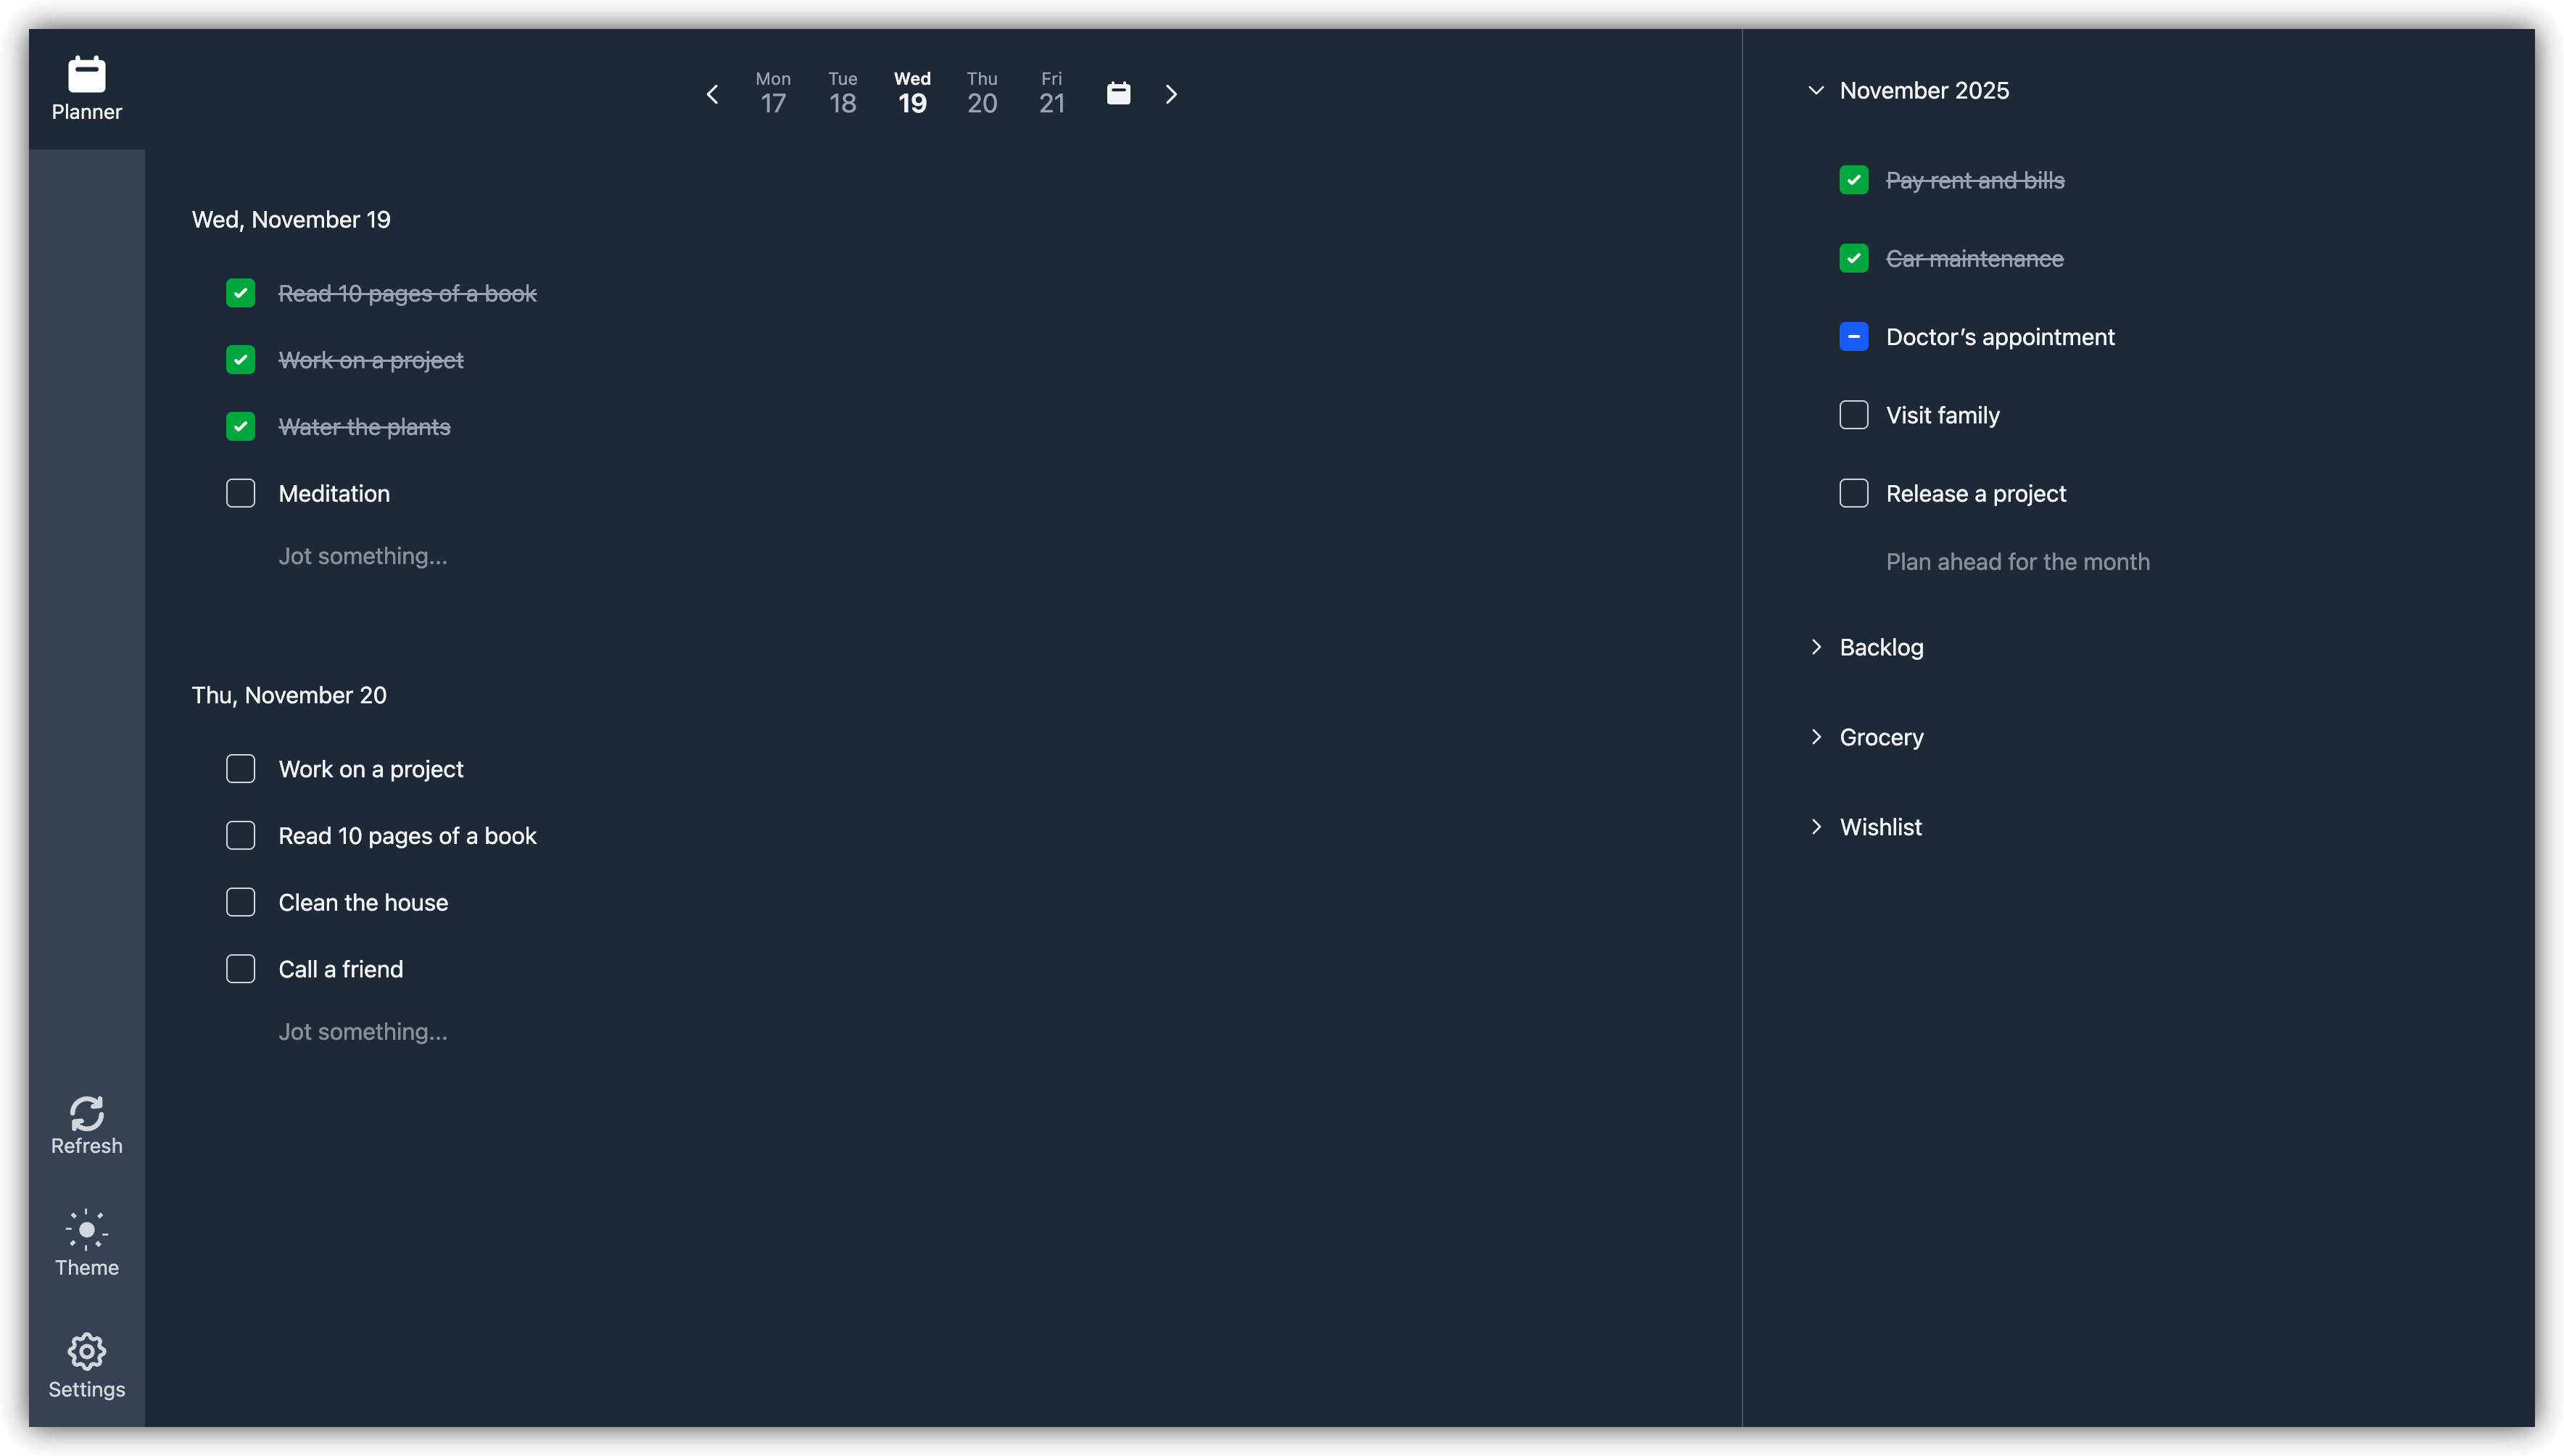
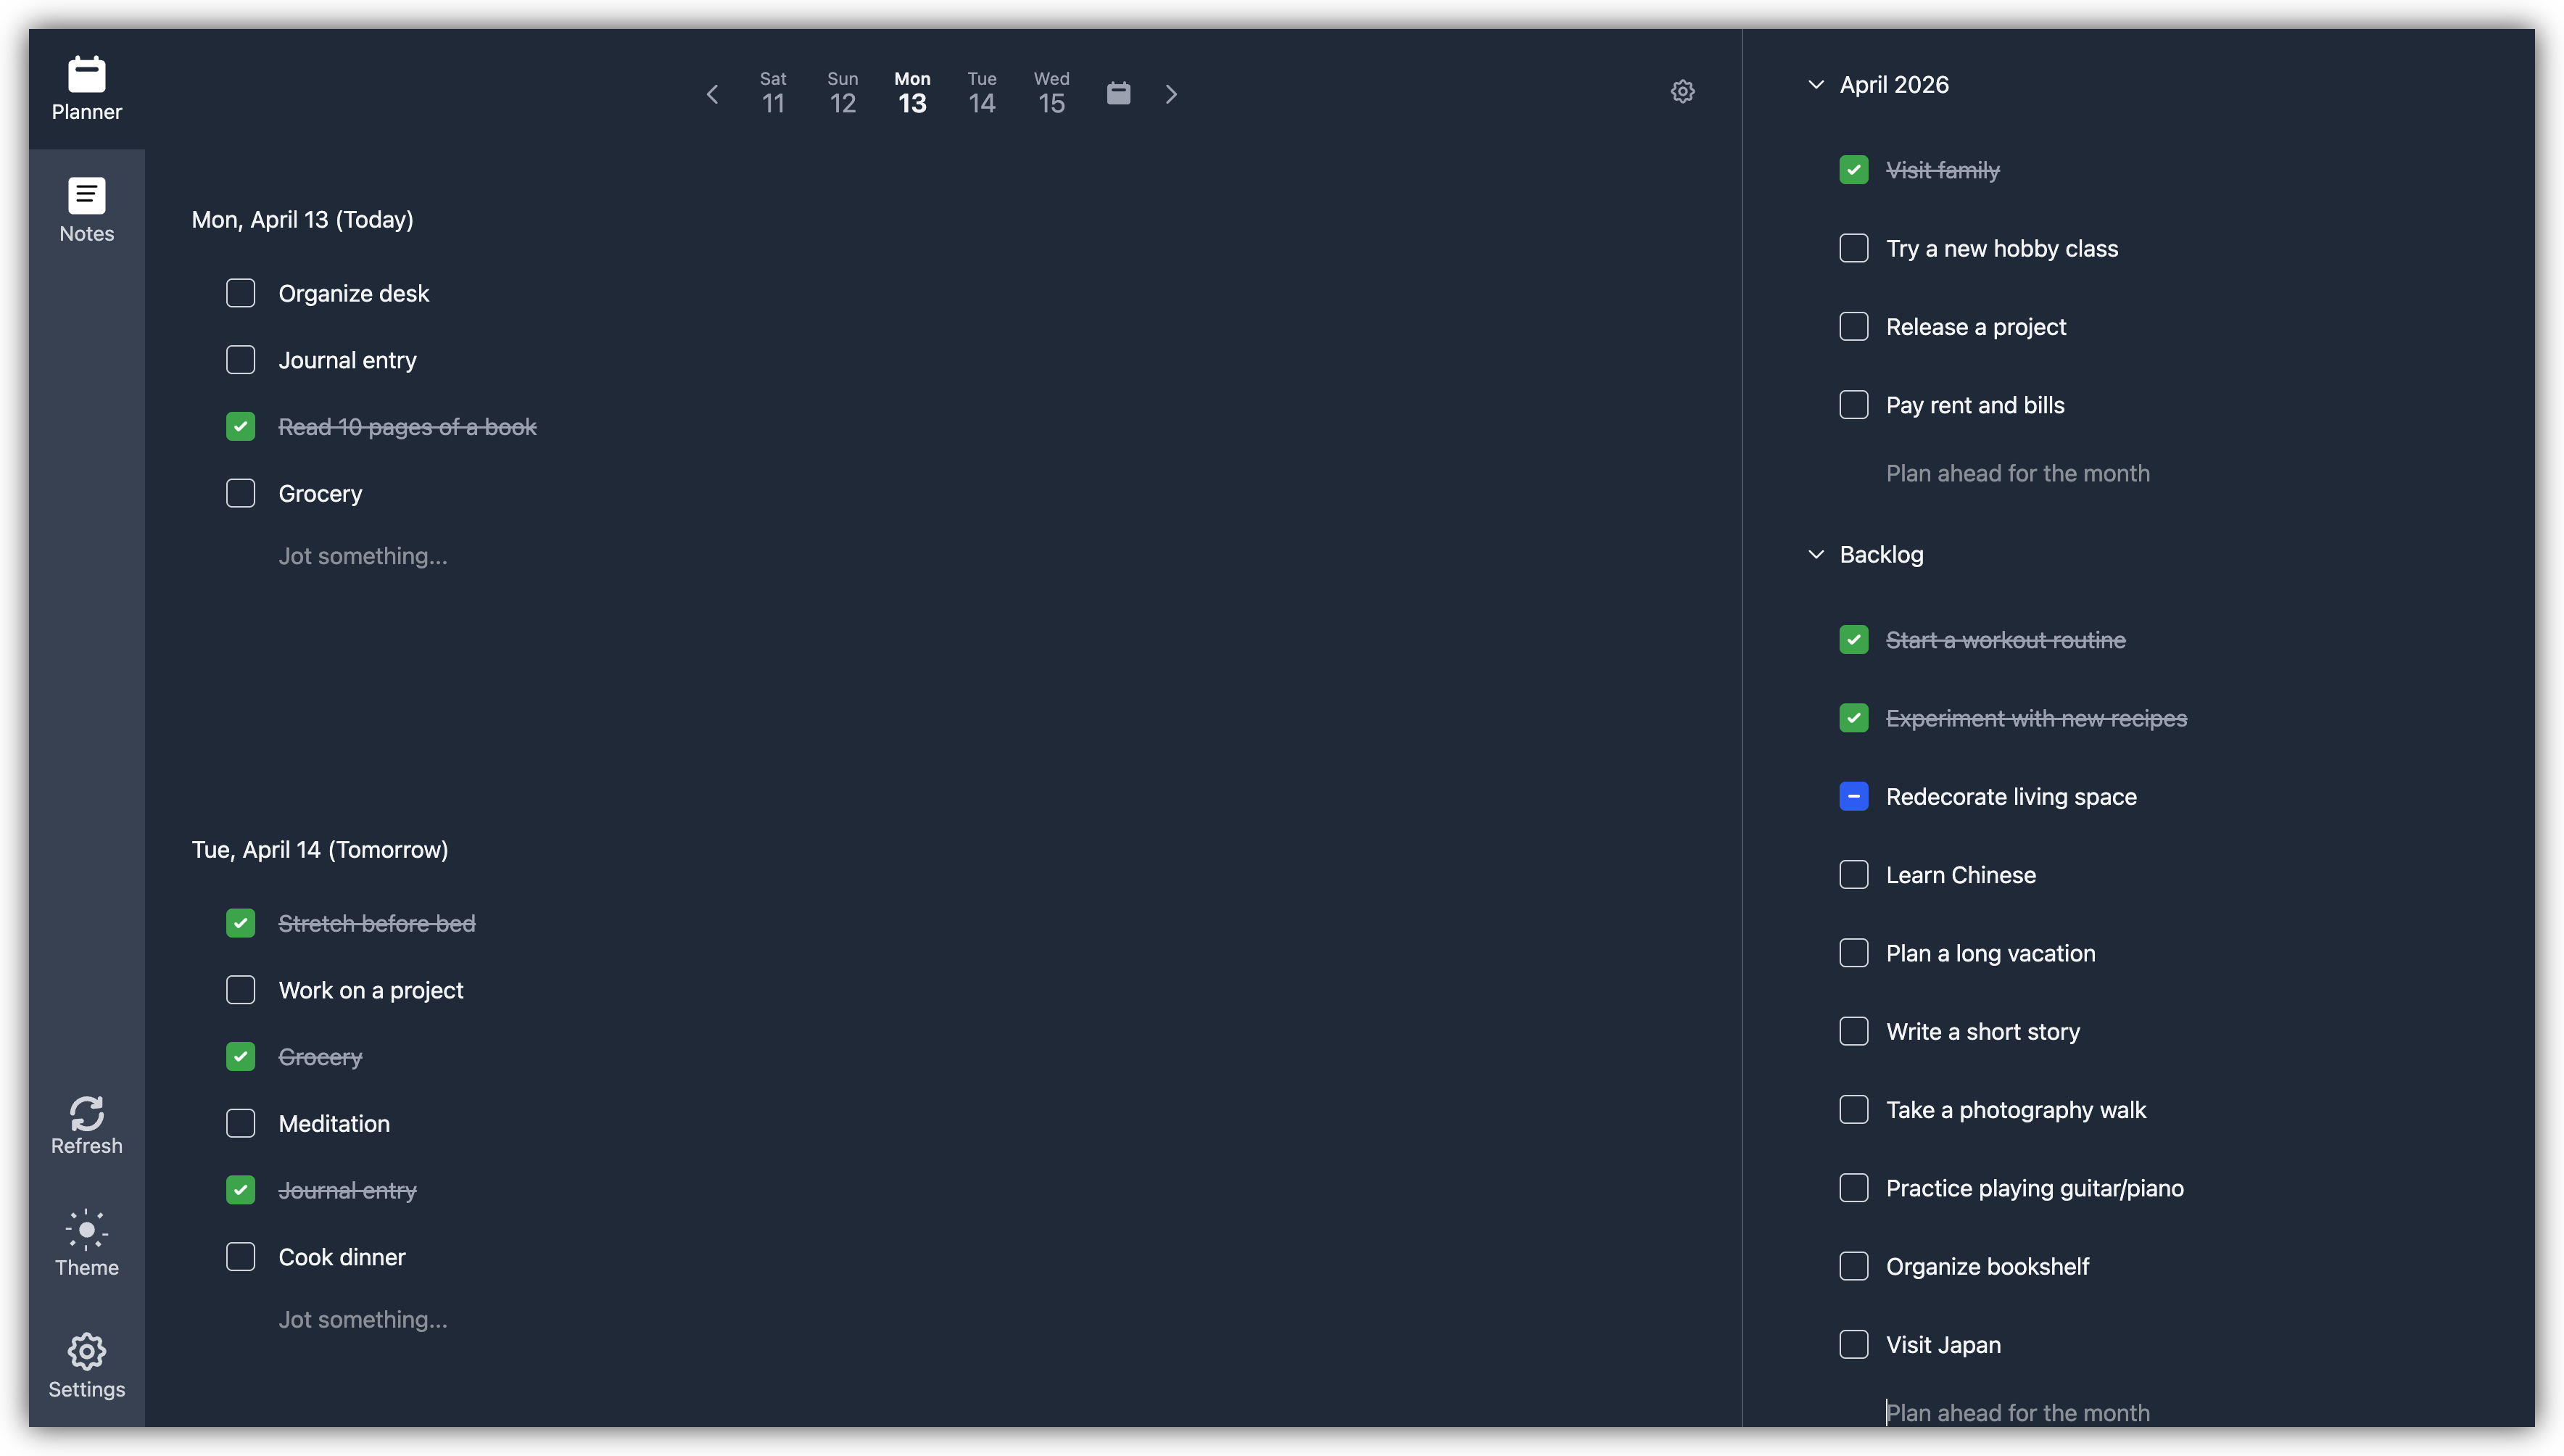
Update screenshots and docs

diff --git a/docusaurus.config.ts b/docusaurus.config.ts
@@ -99,7 +99,7 @@ const config: Config = {
               to: '/docs/intro',
             },
             {
-              label: 'Installation guide',
+              label: 'Installation Guide',
               to: '/docs/installation',
             },
             {

diff --git a/docs/perga-web.md b/docs/perga-web.md
@@ -13,31 +13,45 @@ The web client for the Perga personal organizer system. It connects to the [Perg
 
 Perga Web is a standalone SPA built with React and Vite. It communicates with Perga API using a configurable base URL and implements authentication, planner views, and user settings fully in the browser.
 
-## Features
+## Screenshots
 
-- Daily planner
-- Monthly and custom agendas
-- User authentication and settings
-- Responsive design with mobile support
-- Dark theme
+<p>
+  <img src="/static/img/planner_screenshot.png" alt="Planner" width="300" />
+  <span>&nbsp;&nbsp;&nbsp;</span>
+  <img src="/static/img/planner_weekly_screenshot.png" alt="Planner Weekly" width="300" />
+  <span>&nbsp;&nbsp;&nbsp;</span>
+  <img src="/static/img/notes_screenshot.png" alt="Notes" width="300" />
+</p>
 
 ## Demo
 
-Try the hosted demo:
-- https://demo.getperga.me/
+You can try out Perga without installation by visiting demo version at [https://demo.getperga.me/](https://demo.getperga.me/).
+
+## Features
+
+- Daily planner + weekly view
+- Monthly and custom agendas
+- Projects (organize agendas and notes)
+- Notes (folders, import/export, and @notes references)
+- User authentication and settings
+- Responsive design with mobile support
+- PWA support
+- Dark theme
 
 ## Tech Stack
 
-- React 19
-- TypeScript (~5.7)
-- Vite 6
-- Tailwind CSS 4
-- React Router 7
-- Axios 1
+- React 19.0
+- TypeScript (~5.7.2)
+- Vite 6.3
+- Tailwind CSS 4.1
+- React Router 7.4
+- Axios 1.8
+- Prettier 3.3
+- ESLint 9.21
 
 ## Requirements
 
-- Node.js 20+ (Docker uses `node:20-alpine`)
+- Node.js 18+ (Docker uses `node:20-alpine`)
 - npm 8+ (project uses npm; a `package-lock.json` is included)
 
 ## Environment variables
@@ -74,11 +88,11 @@ Start the Vite development server (defaults to http://localhost:5173):
 npm run dev
 ```
 
-Code quality:
+Code quality and formatting (ESLint & Prettier):
 ```bash
-npm run lint
-npm run format       # write
-npm run format:check # check only
+npm run lint         # check linting
+npm run format       # write formatting
+npm run format:check # check formatting only
 ```
 
 ## Build & Preview
@@ -126,6 +140,7 @@ perga-web/
 │   ├── sections/         # Main application sections
 │   │   ├── auth/         # Authentication components
 │   │   ├── planner/      # Planning functionality
+│   │   ├── notes/        # Notes functionality
 │   │   └── settings/     # User settings
 │   ├── App.tsx           # Main application component
 │   └── main.tsx          # Application entry point
@@ -140,9 +155,33 @@ perga-web/
 └── vite.config.ts        # Vite configuration and path aliases
 ```
 
-## Path Aliases
+## Testing
 
-The project uses path aliases (defined in `vite.config.ts`) to simplify imports:
+The project uses [Vitest](https://vitest.dev/) for unit and component testing.
+
+Run all tests:
+```bash
+npm run test
+```
+
+Run tests in watch mode:
+```bash
+npm run test:watch
+```
+
+Run tests with coverage:
+```bash
+npm run test:coverage
+```
+
+## Notes Section
+
+The Notes section provides a comprehensive system for personal knowledge management:
+
+- **Folders**: Organize notes into hierarchical folders.
+- **Import/Export**: Support for Markdown, HTML, and PDF (export only).
+
+## Path Aliases
 
 - `@` → `src`
 - `@api` → `src/api`
@@ -152,6 +191,7 @@ The project uses path aliases (defined in `vite.config.ts`) to simplify imports:
 - `@sections` → `src/sections`
 - `@auth` → `src/sections/auth`
 - `@planner` → `src/sections/planner`
+- `@notes` → `src/sections/notes`
 - `@settings` → `src/sections/settings`
 
 ## CI

diff --git a/docs/perga-api.md b/docs/perga-api.md
@@ -18,9 +18,10 @@ Perga API is a FastAPI-based backend that powers the Perga personal organizer. I
 
 - Daily planner
 - Monthly and custom agendas
+- Notes
 - RESTful API with FastAPI
 - User authentication with JWT tokens
-- Interactive docs (Swagger UI / ReDoc)
+- API Documentation with Swagger UI
 
 ## Demo and Documentation
 
@@ -29,18 +30,18 @@ Perga API is a FastAPI-based backend that powers the Perga personal organizer. I
 
 ## Tech Stack
 
-- FastAPI
-- SQLAlchemy
-- Alembic
-- PostgreSQL
-- Pydantic Settings
-- JWT-based auth
-- Pytest
+- **Framework:** [FastAPI](https://fastapi.tiangolo.com/) 0.135
+- **Database:** [PostgreSQL](https://www.postgresql.org/) 15 with [SQLAlchemy](https://www.sqlalchemy.org/) 2.0
+- **Migrations:** [Alembic](https://alembic.sqlalchemy.org/) 1.18
+- **Validation:** [Pydantic](https://docs.pydantic.dev/) 2.12
+- **Authentication:** JWT (JSON Web Tokens)
+- **Containerization:** [Docker](https://www.docker.com/) & [Docker Compose](https://docs.docker.com/compose/)
 
 ## Requirements
 
 - Python 3.10+
-- PostgreSQL 15+
+- PostgreSQL
+- Docker (optional)
 
 ## Installation (local)
 
@@ -52,13 +53,13 @@ cd perga-api
 
 2) Create and activate a virtual environment
 ```bash
-python -m venv .venv
-source .venv/bin/activate   # Windows: .venv\Scripts\activate
+python3 -m venv venv
+source venv/bin/activate   # Windows: venv\Scripts\activate
 ```
 
 3) Install dependencies
 ```bash
-pip install -r requirements.txt
+pip install -r requirements.txt -r requirements-dev.txt
 ```
 
 4) Configure environment
@@ -142,6 +143,21 @@ Agenda items:
 - `POST /api/v1/planner/agendas/items/reorder/` — Reorder items within an agenda
 - `POST /api/v1/planner/agendas/items/{item_id}/copy/` — Copy an item (optionally to another agenda)
 - `POST /api/v1/planner/agendas/items/{item_id}/move/` — Move an item to another agenda
+
+### Notes
+- `POST /api/v1/notes/` — Create a new note
+- `GET /api/v1/notes/{note_id}/` — Get a note by ID
+- `PATCH /api/v1/notes/{note_id}/` — Update a note (partial)
+
+#### Notes Folders
+- `GET /api/v1/notes/folders/` — Get all folders for the current user
+- `POST /api/v1/notes/folders/` — Create a new folder
+- `PATCH /api/v1/notes/folders/{folder_id}/` — Update a folder
+- `POST /api/v1/notes/folders/empty-trash/` — Permanently delete all notes and folders in the trash
+
+#### Notes Import & Export
+- `GET /api/v1/notes/export/` — Export notes (HTML, Markdown, or PDF)
+- `POST /api/v1/notes/import/` — Import notes from files (ZIP, HTML, or Markdown)
 
 ## Development
 

diff --git a/docs/intro.md b/docs/intro.md
@@ -13,22 +13,35 @@ Perga consists of two main components:
 1. **[Perga API](https://github.com/dbtiunov/perga-api)**: The backend service providing the core functionality and data storage.
 2. **[Perga Web](https://github.com/dbtiunov/perga-web)**: A standalone browser client that connects to the backend to provide a user-friendly web interface.
 
-## Key Features
+## Screenshots
+
+<p>
+  <img src="/static/img/planner_screenshot.png" alt="Planner" width="300" />
+  <span>&nbsp;&nbsp;&nbsp;</span>
+  <img src="/static/img/planner_weekly_screenshot.png" alt="Planner Weekly" width="300" />
+  <span>&nbsp;&nbsp;&nbsp;</span>
+  <img src="/static/img/notes_screenshot.png" alt="Notes" width="300" />
+  <span>&nbsp;&nbsp;&nbsp;</span>
+  <img src="/static/img/api_screenshot.png" alt="API" width="300" />
+</p>
+
+## Demo
+
+You can try out Perga without installation by visiting demo version at [https://demo.getperga.me/](https://demo.getperga.me/).
+
+## Features
 
 - **Daily planner**: Organize your daily tasks and activities
 - **Monthly and custom agendas**: Plan ahead and keep track of your monthly goals
 - **User authentication**: Secure access to your personal data
 - **Responsive design and dark theme**: Works on desktop and mobile devices
 
-<p>
-  <img src="/img/planner_screenshot.png" alt="Planner Screenshot" width="300" />
-  <span>&nbsp;&nbsp;&nbsp;</span>
-  <img src="/img/api_screenshot.png" alt="API Screenshot" width="300" />
-</p>
+## Roadmap
 
-## Try Perga Demo
-
-You can try out Perga without installation by visiting demo version at [https://demo.getperga.me/](https://demo.getperga.me/).
+* Projects
+* Inbox
+* Keyboard Shortcuts
+* Mobile App
 
 ## Documentation Structure
 
@@ -36,11 +49,3 @@ This documentation provides detailed information about both components of the Pe
 
 - [Perga API Documentation](./perga-api): Details about the backend API, including installation, endpoints, and development guidelines.
 - [Perga Web Documentation](./perga-web): Information about the web client, including setup, project structure, and development workflow.
-
-## Roadmap
-
-* Notes
-* Projects
-* Inbox
-* Keyboard Shortcuts
-* Mobile App

diff --git a/docs/installation.md b/docs/installation.md
@@ -1,6 +1,6 @@
 ---
 sidebar_position: 2
-title: Installation
+title: Installation Guide
 ---
 
 Run Perga locally with Docker in two ways: